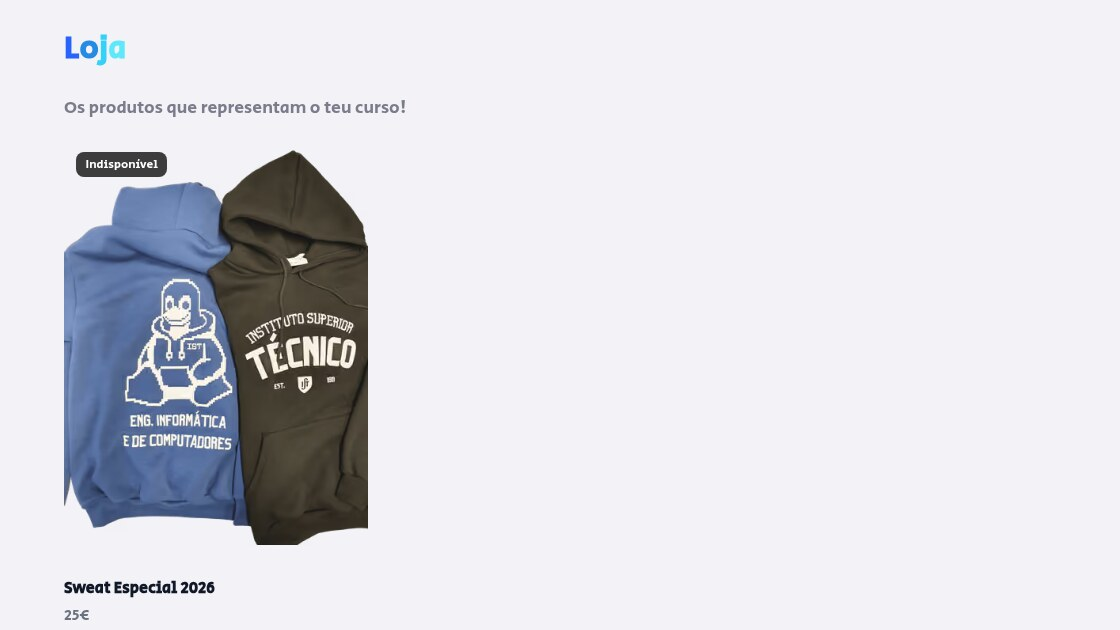
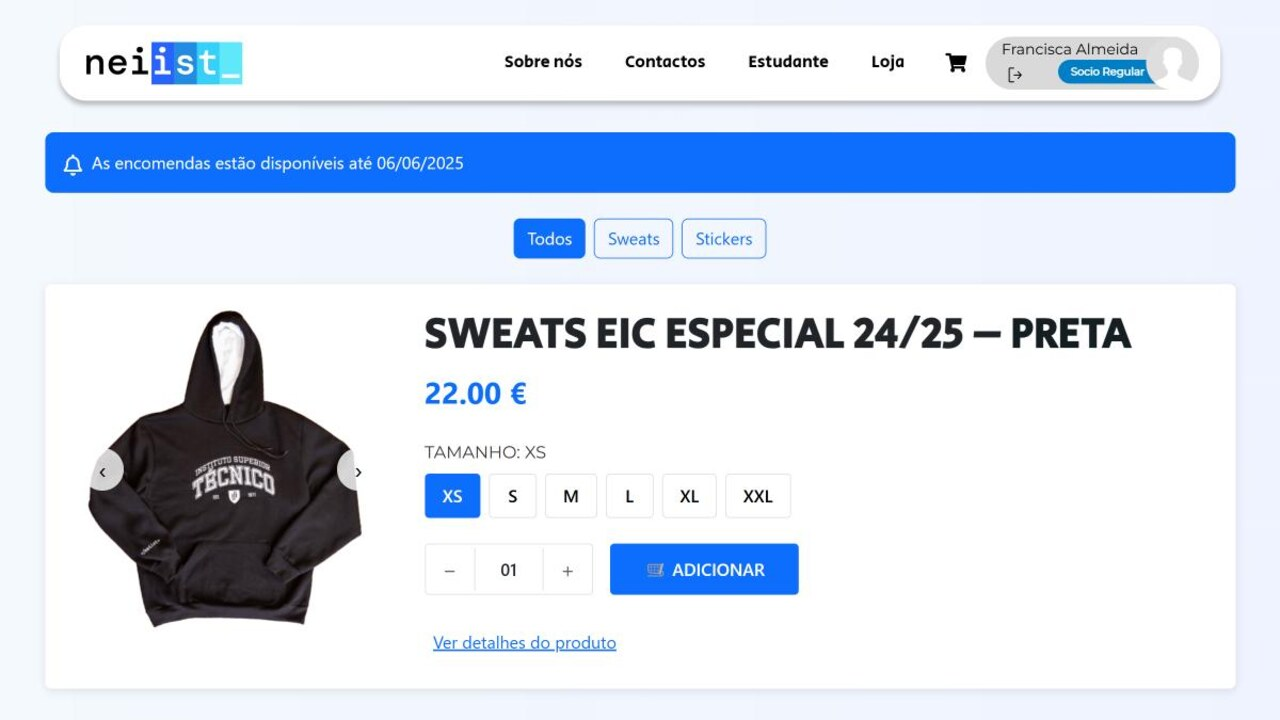
feat: add neiist store screenshots and project image gallery

diff --git a/src/components/projects/project-gallery.tsx b/src/components/projects/project-gallery.tsx
@@ -1,0 +1,65 @@
+"use client";
+
+import Image from "next/image";
+import { useState } from "react";
+import { assetPath } from "@/lib/paths";
+import { cn } from "@/lib/utils";
+import type { ProjectImage } from "@/types/portfolio";
+
+interface ProjectGalleryProps {
+  images: ProjectImage[];
+}
+
+// Cover image plus optional extra screenshots. The dialog renders it with
+// key={project.title}, so the selection resets when another project opens.
+export function ProjectGallery({ images }: ProjectGalleryProps) {
+  const [selected, setSelected] = useState(0);
+  const current = images[selected] ?? images[0];
+
+  if (!current) return null;
+
+  return (
+    // This wrapper is the dialog's grid item, not the aspect-ratio box: a
+    // stretched grid item ignores its aspect ratio, collapses its row and
+    // overlaps the text below.
+    <div className="space-y-2">
+      <div className="relative aspect-video overflow-hidden rounded-lg border border-border/50 bg-secondary/30">
+        <Image
+          src={assetPath(current.src)}
+          alt={current.alt}
+          fill
+          sizes="(min-width: 640px) 42rem, 100vw"
+          className="object-cover object-top"
+        />
+      </div>
+
+      {images.length > 1 && (
+        <div className="flex gap-2">
+          {images.map((image, index) => (
+            <button
+              key={image.src}
+              type="button"
+              onClick={() => setSelected(index)}
+              aria-label={`Show screenshot ${index + 1} of ${images.length}: ${image.alt}`}
+              aria-pressed={index === selected}
+              className={cn(
+                "relative aspect-video w-20 sm:w-24 overflow-hidden rounded-md border transition-opacity",
+                index === selected
+                  ? "border-primary"
+                  : "border-border/50 opacity-60 hover:opacity-100",
+              )}
+            >
+              <Image
+                src={assetPath(image.src)}
+                alt=""
+                fill
+                sizes="6rem"
+                className="object-cover object-top"
+              />
+            </button>
+          ))}
+        </div>
+      )}
+    </div>
+  );
+}

diff --git a/src/components/projects/project-dialog.tsx b/src/components/projects/project-dialog.tsx
@@ -7,7 +7,7 @@ import {
   Github,
   User,
 } from "lucide-react";
-import Image from "next/image";
+import { ProjectGallery } from "@/components/projects/project-gallery";
 import { SkillIcon } from "@/components/skill-icon";
 import { Badge } from "@/components/ui/badge";
 import { Button } from "@/components/ui/button";
@@ -19,7 +19,6 @@ import {
   DialogTitle,
 } from "@/components/ui/dialog";
 import { formatMonth } from "@/lib/format-date";
-import { assetPath } from "@/lib/paths";
 import type { Icons, Project } from "@/types/portfolio";
 
 interface ProjectDialogProps {
@@ -52,22 +51,13 @@ export function ProjectDialog({
       <DialogContent className="max-w-[calc(100%-2rem)] sm:max-w-2xl max-h-[85vh] overflow-y-auto">
         {project && (
           <>
-            {project.image && (
-              // The wrapper keeps the aspect-ratio box from being a direct
-              // grid item of the dialog: a stretched grid item ignores its
-              // aspect ratio, collapses its row and overlaps the text below.
-              <div>
-                <div className="relative aspect-video overflow-hidden rounded-lg border border-border/50 bg-secondary/30">
-                  <Image
-                    src={assetPath(project.image.src)}
-                    alt={project.image.alt}
-                    fill
-                    sizes="(min-width: 640px) 42rem, 100vw"
-                    className="object-cover object-top"
-                  />
-                </div>
-              </div>
-            )}
+            <ProjectGallery
+              key={project.title}
+              images={[
+                ...(project.image ? [project.image] : []),
+                ...project.gallery,
+              ]}
+            />
 
             <DialogHeader>
               <Badge

diff --git a/src/lib/portfolio-schema.ts b/src/lib/portfolio-schema.ts
@@ -56,14 +56,13 @@ const linksSchema = z
   .optional()
   .catch(undefined);
 
-const imageSchema = z
-  .object({
-    // Path under /public, e.g. "/projects/sinfo.jpg".
-    src: safeString,
-    alt: safeString,
-  })
-  .optional()
-  .catch(undefined);
+const imageObjectSchema = z.object({
+  // Path under /public, e.g. "/projects/sinfo.jpg".
+  src: safeString,
+  alt: safeString,
+});
+
+const imageSchema = imageObjectSchema.optional().catch(undefined);
 
 const roleSchema = z.object({
   title: safeString,
@@ -214,6 +213,8 @@ const projectSchema = z.object({
   result: optionalString,
   technologies: safeStringArray,
   image: imageSchema,
+  // Extra screenshots shown after the cover image in the project dialog.
+  gallery: z.array(imageObjectSchema).catch([]),
   proof_of_competence: proofOfCompetenceSchema,
   links: linksSchema,
 });
@@ -271,7 +272,7 @@ export type ProofOfCompetence = NonNullable<
   z.infer<typeof proofOfCompetenceSchema>
 >;
 export type ProjectLinks = NonNullable<z.infer<typeof linksSchema>>;
-export type ProjectImage = NonNullable<z.infer<typeof imageSchema>>;
+export type ProjectImage = z.infer<typeof imageObjectSchema>;
 export type Role = z.infer<typeof roleSchema>;
 export type IndustryExperience = z.infer<typeof industryExperienceSchema>;
 export type UniversityRole = z.infer<typeof universityRoleSchema>;

diff --git a/src/types/portfolio.ts b/src/types/portfolio.ts
@@ -14,6 +14,8 @@ export type {
   OpenSource,
   PortfolioData,
   Project,
+  ProjectImage,
+  ProjectLinks,
   ProofOfCompetence,
   Role,
   Skills,
